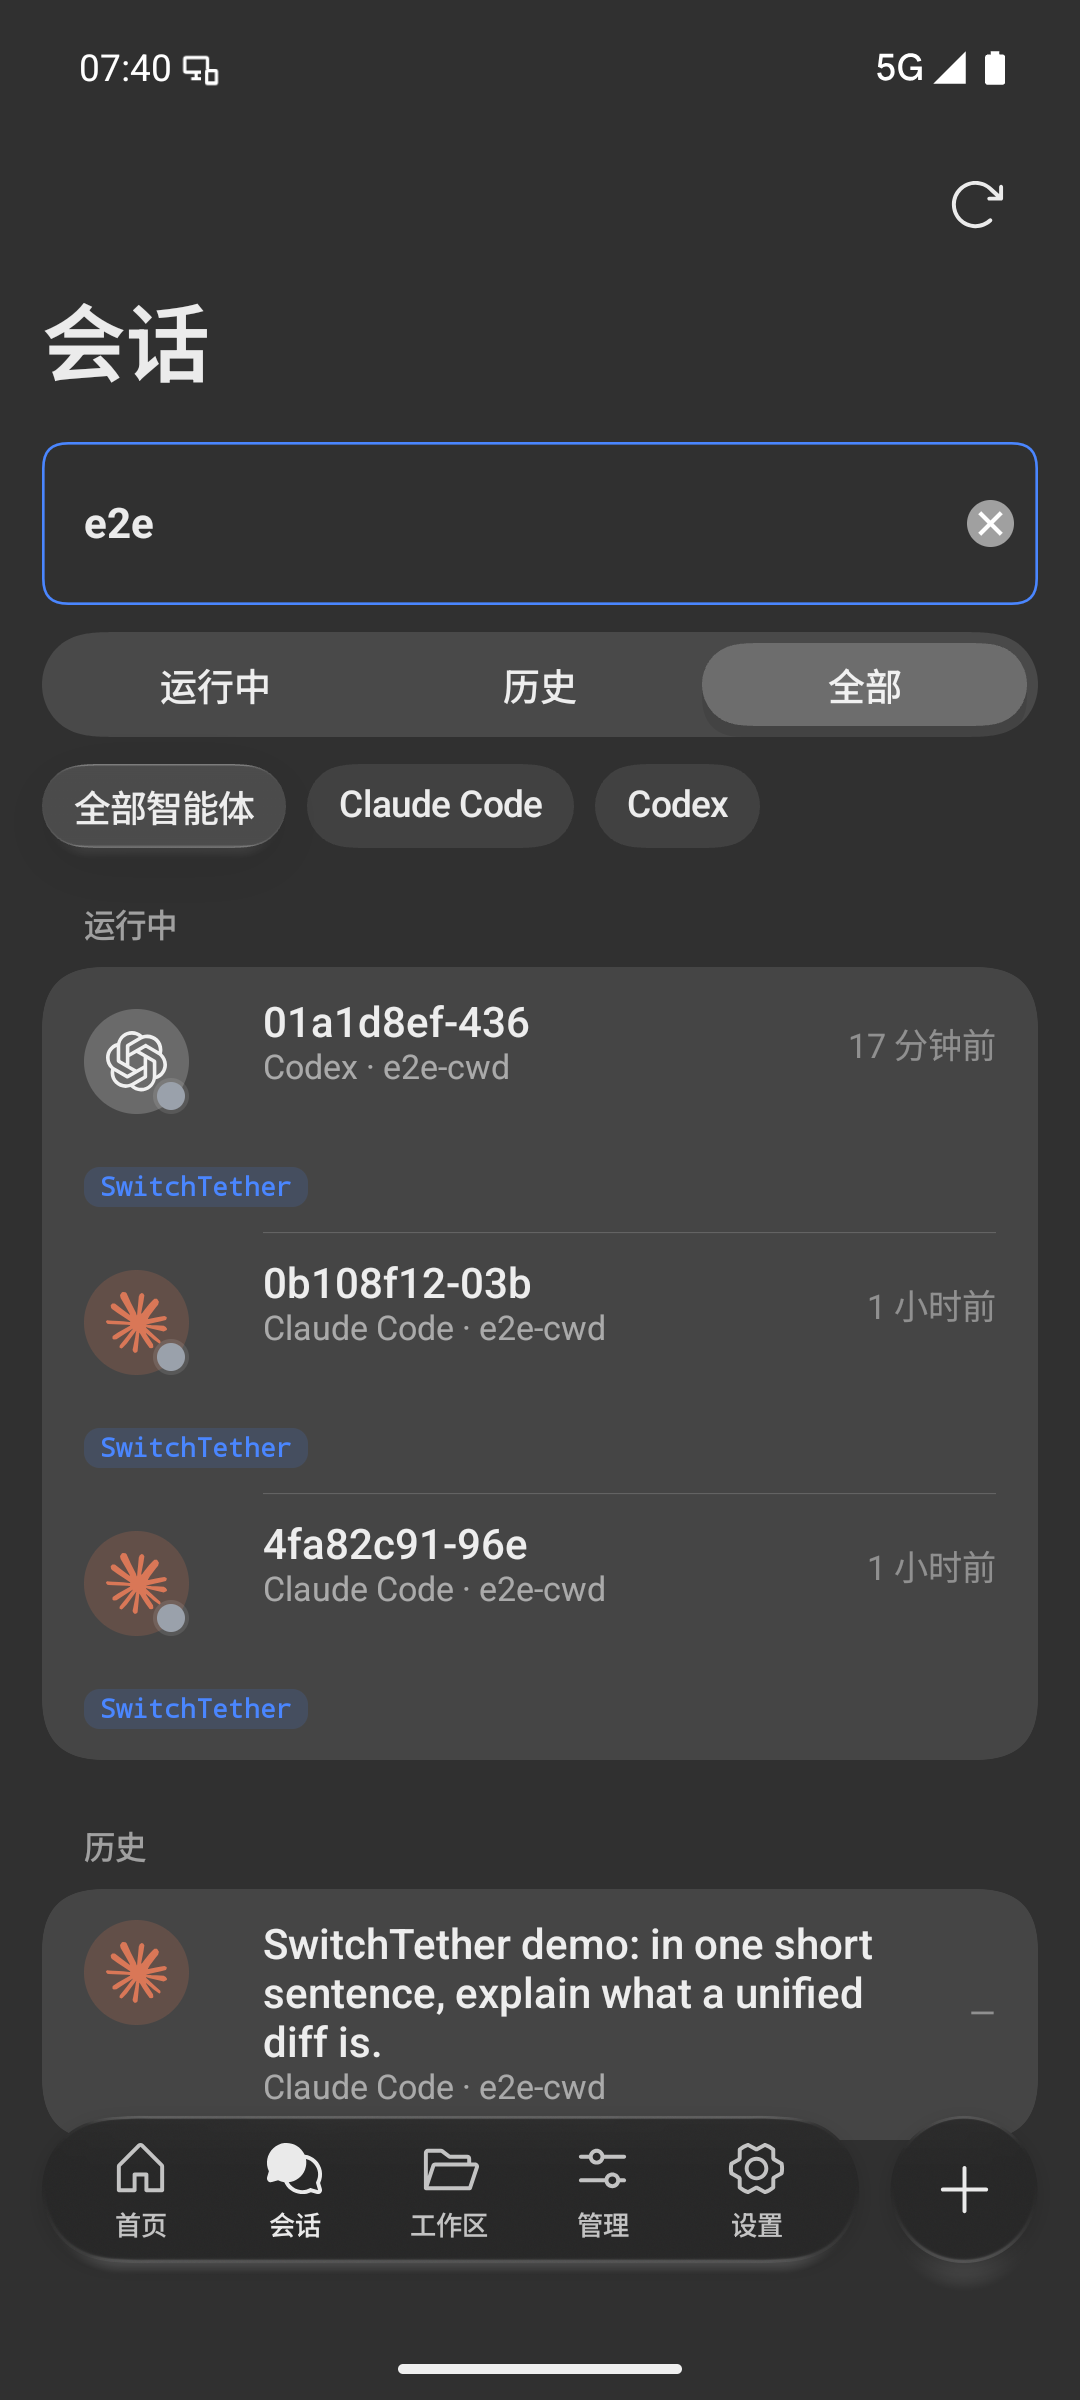
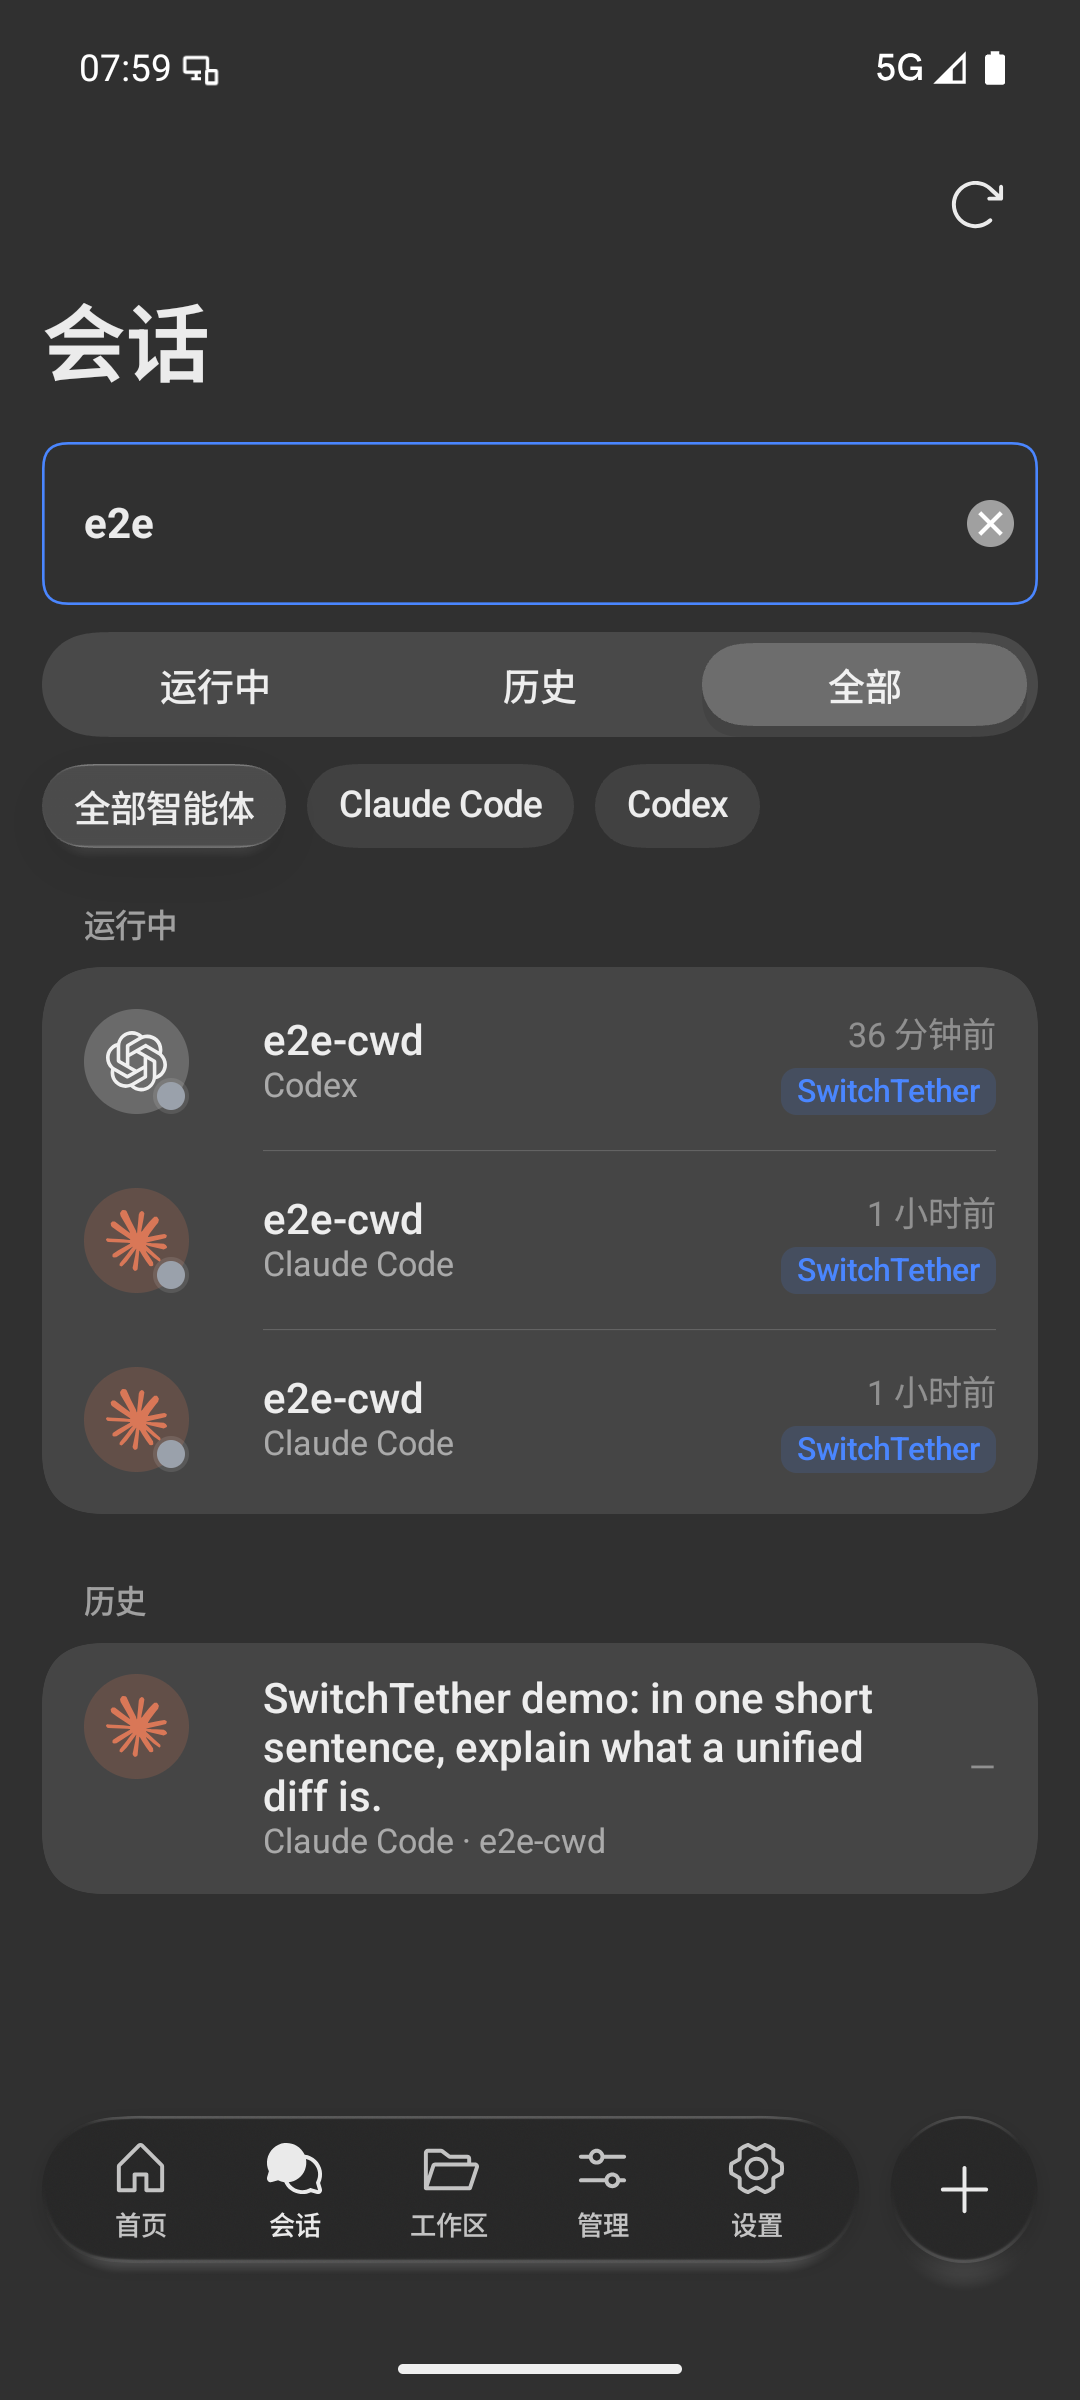
Android: two-line session rows, inline origin tag, readable untitled sessions

diff --git a/android/app/src/main/kotlin/io/github/tianli0/switchtether/ui/sessions/SessionRow.kt b/android/app/src/main/kotlin/io/github/tianli0/switchtether/ui/sessions/SessionRow.kt
@@ -4,6 +4,13 @@ import androidx.compose.foundation.layout.Arrangement
 import androidx.compose.foundation.layout.Row
 import androidx.compose.foundation.layout.padding
 import androidx.compose.runtime.Composable
+import androidx.compose.foundation.layout.Column
+import io.github.tianli0.switchtether.ui.common.sessionDisplayTitle
+import io.github.tianli0.switchtether.ui.common.attachedLabel
+import androidx.compose.ui.text.style.TextOverflow
+import androidx.compose.ui.Alignment
+import androidx.compose.foundation.layout.size
+import androidx.compose.foundation.layout.Spacer
 import androidx.compose.ui.Modifier
 import androidx.compose.ui.res.stringResource
 import androidx.compose.ui.unit.dp
@@ -36,10 +43,10 @@ fun SessionRow(
 ) {
     val dev = LocalDevColors.current
     val agent = Formatters.agentLabel(session.agent)
+    val title = sessionDisplayTitle(session)
     BasicComponent(
         modifier = modifier,
-        title = session.title?.takeIf { it.isNotBlank() } ?: session.nativeId.ifEmpty { session.id }.take(12),
-        summary = listOfNotNull(agent, session.project, session.gitBranch).joinToString(" · "),
+        title = title,
         startAction = {
             AgentBadge(
                 session.agent,
@@ -48,19 +55,19 @@ fun SessionRow(
                 statusColor = if (session.isLive) sessionStatusColor(session.status) else null,
             )
         },
+        summary = listOfNotNull(agent, session.project?.takeIf { it != title }, session.gitBranch).joinToString(" · "),
+        // Right column: relative time over the small origin / waiting tags, so a row stays two lines.
         endActions = {
-            Text(relativeTime(session.lastActiveAtMs), style = COUITheme.textStyles.footnote1, color = COUITheme.colorScheme.onSurfaceVariantSummary)
-        },
-        bottomAction = if (session.waitingFor != null || session.managed || session.isAttached) {
-            {
-                Row(Modifier.padding(top = 6.dp), horizontalArrangement = Arrangement.spacedBy(4.dp)) {
-                    session.waitingFor?.let { StatusPill(waitingLabel(it), dev.warn) }
-                    if (session.isAttached) StatusPill(io.github.tianli0.switchtether.ui.common.attachedLabel(session), COUITheme.colorScheme.primary)
-                    if (session.managed) StatusPill(stringResource(R.string.session_managed_chip), COUITheme.colorScheme.primary)
+            Column(horizontalAlignment = Alignment.End, verticalArrangement = Arrangement.spacedBy(4.dp)) {
+                Text(relativeTime(session.lastActiveAtMs), style = COUITheme.textStyles.footnote1, color = COUITheme.colorScheme.onSurfaceVariantSummary)
+                val tag: Pair<String, androidx.compose.ui.graphics.Color>? = when {
+                    session.waitingFor != null -> waitingLabel(session.waitingFor!!) to dev.warn
+                    session.isAttached -> attachedLabel(session) to COUITheme.colorScheme.primary
+                    session.managed -> stringResource(R.string.session_managed_chip) to COUITheme.colorScheme.primary
+                    else -> null
                 }
+                tag?.let { (text, color) -> StatusPill(text, color) }
             }
-        } else {
-            null
         },
         insideMargin = if (compact) androidx.compose.foundation.layout.PaddingValues(horizontal = 16.dp, vertical = 10.dp) else io.github.suqi8.coui.kmp.basic.BasicComponentDefaults.InsideMargin,
         cardListPosition = position,

diff --git a/android/app/src/main/kotlin/io/github/tianli0/switchtether/ui/sessions/SessionDetailScreen.kt b/android/app/src/main/kotlin/io/github/tianli0/switchtether/ui/sessions/SessionDetailScreen.kt
@@ -232,7 +232,7 @@ fun SessionDetailContent(
     val listState = rememberLazyListState()
     val scope = rememberCoroutineScope()
     Page(
-        title = summary?.title?.takeIf { it.isNotBlank() } ?: initialTitle ?: stringResource(R.string.session_untitled),
+        title = summary?.let { io.github.tianli0.switchtether.ui.common.sessionDisplayTitle(it) } ?: initialTitle ?: stringResource(R.string.session_unnamed),
         subtitle = summary?.let { listOfNotNull(Formatters.agentLabel(it.agent), it.model).joinToString(" · ") } ?: "",
         onBack = onBack,
         actions = {
@@ -512,6 +512,7 @@ private fun SessionInfoSheet(show: Boolean, detail: SessionDetail?, activity: St
                 s.gitBranch?.let { stringResource(R.string.session_info_branch) to it },
                 s.cwd?.let { stringResource(R.string.session_info_cwd) to it },
                 stringResource(R.string.session_info_last_active) to relativeTime(s.lastActiveAtMs),
+                stringResource(R.string.session_info_id) to listOf(s.id, s.nativeId).filter { it.isNotBlank() }.distinct().joinToString("\n"),
             )
             GroupCard {
                 rows.forEachIndexed { i, (k, v) -> BasicComponent(title = k, summary = v, cardListPosition = cardListPositionOf(i, rows.size)) }

diff --git a/android/app/src/main/kotlin/io/github/tianli0/switchtether/ui/common/Localized.kt b/android/app/src/main/kotlin/io/github/tianli0/switchtether/ui/common/Localized.kt
@@ -75,6 +75,17 @@ fun clientLabel(origin: String, agent: String): String = when (origin) {
     else -> origin
 }
 
+/**
+ * Title shown for a session: its own title, else the project / working-directory name, else
+ * "未命名会话". Raw native ids are only shown in the info sheet.
+ */
+@Composable
+fun sessionDisplayTitle(s: io.github.tianli0.switchtether.remote.protocol.SessionSummary): String =
+    s.title?.takeIf { it.isNotBlank() }
+        ?: s.project?.takeIf { it.isNotBlank() }
+        ?: s.cwd?.trimEnd('/', '\\')?.substringAfterLast('/')?.substringAfterLast('\\')?.takeIf { it.isNotBlank() }
+        ?: stringResource(R.string.session_unnamed)
+
 /** Badge for a session SwitchTether is attached to through the opt-in wrapper: "已接管 · VS Code". */
 @Composable
 fun attachedLabel(s: io.github.tianli0.switchtether.remote.protocol.SessionSummary): String =

diff --git a/android/core/ui/src/main/kotlin/io/github/tianli0/switchtether/ui/components/Common.kt b/android/core/ui/src/main/kotlin/io/github/tianli0/switchtether/ui/components/Common.kt
@@ -45,7 +45,7 @@ fun StatusPill(text: String, color: Color, modifier: Modifier = Modifier, conten
             .padding(horizontal = 6.dp, vertical = 2.dp)
             .then(if (contentDescription != null) Modifier.semantics { this.contentDescription = contentDescription } else Modifier),
     ) {
-        Text(text = text, color = color, style = DevType.label, fontWeight = FontWeight.SemiBold, maxLines = 1)
+        Text(text = text, color = color, style = COUITheme.textStyles.footnote2, fontWeight = FontWeight.Medium, maxLines = 1)
     }
 }
 

diff --git a/docs/ANDROID_UI.md b/docs/ANDROID_UI.md
@@ -436,6 +436,12 @@ references are gone too. The debug APK grows to ~83 MB because debug builds aren
   4. **更多**: one card with today's usage as a single line, Providers and Desktop info.
 - Removed: the metric hero card, the usage hero card and the long quick-links list.
 
+### 12.2a Session rows
+A session row is at most two lines. Line 1 is the title, line 2 is agent · project · branch, and
+the right column holds the relative time above one small tag. The tag uses the regular UI font, not
+monospace, and is one of 等待审批 / 已接管 · VS Code / SwitchTether. A session without a title shows its
+project or working-directory name, or "未命名会话". Raw ids appear only in the info sheet (会话 ID).
+
 ### 12.3 Agent brand marks
 Session rows (list and Home), assistant message headers and the session header chip row show the
 real agent mark on a softly tinted disc:
